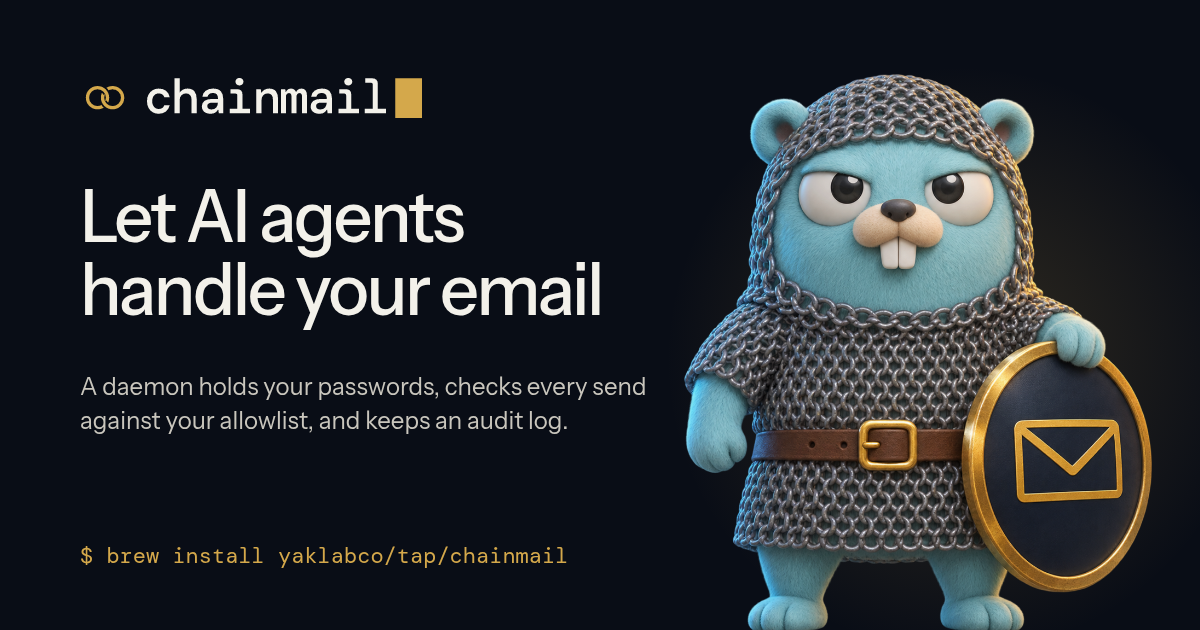
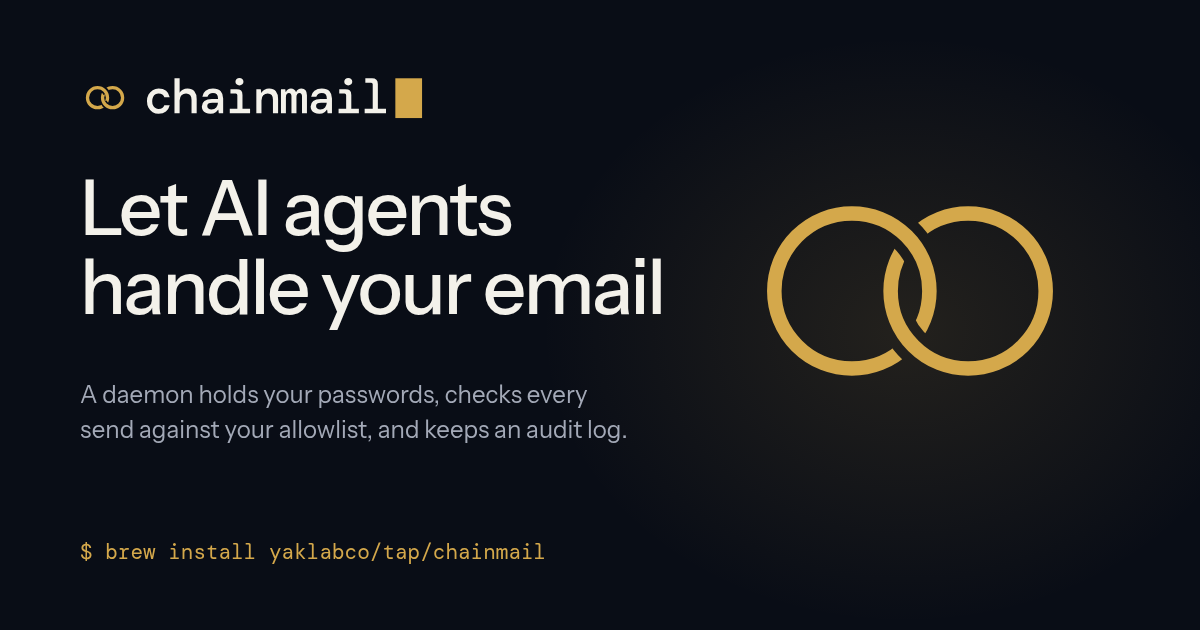
feat(site): retire the gopher mascot
The mascot leaves the landing page's closing section, both footers'
credits, the README and the link preview image. The README opens with
the wordmark, picked for dark or light by a <picture> element, and the
social card draws the linked rings large in the gopher's place. The
brand test now fails on any mascot or gopher reference.

diff --git a/site/src/styles/tokens.css b/site/src/styles/tokens.css
@@ -255,13 +255,12 @@
   #faq .faq--more { display: flex; flex-direction: column; justify-content: space-between; }
 }
 .footer--statement .btn--primary { --action: var(--p-action); --action-ink: var(--p-action-ink); }
-/* the close: the mascot's one cameo, beside the button; sized to the old badge's height (122px, 78px on a phone) */
+/* the close: the heading, then the button */
 .section-head--split > .close__cta-end { display: flex; align-items: center; gap: var(--s-6); }
 .closing__cta.close--word { min-width: 0; gap: var(--s-5); }
 .close--word h2 { max-width: none; }
 .close--word .close__word { font-size: calc(min(100vw - 2 * var(--gut), 1280px) / 4.3); line-height: .96; overflow: visible; margin-top: auto; }
-.close__mascot { width: 102px; height: auto; flex: none; }
-@media (max-width: 639px) { .close__mascot { width: 65px; } .section-head--split > .close__cta-end { gap: var(--s-4); width: 100%; } .close__cta-end > .btn { flex: 1; } }
+@media (max-width: 639px) { .section-head--split > .close__cta-end { gap: var(--s-4); width: 100%; } .close__cta-end > .btn { flex: 1; } }
 
 /* the wordmark in the nav: rings, the name in DM Mono, a blinking cursor */
 .nav__logo .nav__wordmark { display: block; height: 22px; width: auto; }

diff --git a/website/docusaurus.config.ts b/website/docusaurus.config.ts
@@ -4,9 +4,6 @@ import { themes as prismThemes } from 'prism-react-renderer';
 import rehypeTables from './plugins/rehype-tables.mjs';
 import { mermaidOptions } from './plugins/mermaid-theme.mjs';
 
-const gopherCredit =
-  'The Go gopher was designed by Renée French and is licensed under CC BY 4.0. The chainmail gopher is a derivative work under the same license.';
-
 const config: Config = {
   title: 'chainmail',
   tagline: 'Email for AI agents, behind a policy daemon',
@@ -111,7 +108,7 @@ const config: Config = {
           ],
         },
       ],
-      copyright: `Copyright © 2026 James Ainslie. MIT license. ${gopherCredit}`,
+      copyright: `Copyright © 2026 James Ainslie. MIT license.`,
     },
     prism: {
       theme: prismThemes.github,

diff --git a/website/static/img/README.md b/website/static/img/README.md
@@ -5,13 +5,10 @@
 - `wordmark-dark.svg` and `wordmark-light.svg` are the logo for dark and light backgrounds: two linked gold rings, "chainmail" in DM Mono 500 and a block cursor. The letters are outlined, so the files need no font. The cursor blinks, and stays still for visitors who ask for reduced motion.
 - `favicon.svg` is the rings on a navy rounded square. `favicon.ico`, `favicon-192.png` and `apple-touch-icon.png` are the same mark at icon sizes. The Apple icon is square, because iOS rounds the corners itself.
 
-The landing page keeps its own copies in `site/public/img/`.
+The repository README shows the wordmark too, through a `<picture>` element that picks the dark or light file.
 
-## Gopher
+## Link preview
 
-The chainmail gopher was made for chainmail from the Go gopher. It is a gopher in a mail coif and hauberk, holding a navy shield that carries a gold envelope.
+- `social-card.png` is the 1200x630 image that link previews show: the wordmark, the headline and the install command, with the rings drawn large on the right.
 
-- `mascot.png` is the full figure on a transparent background. The repository README uses it.
-- `social-card.png` is the 1200x630 preview image that link previews show, with the wordmark at the top left.
-
-The Go gopher was designed by Renée French and is licensed under CC BY 4.0. The chainmail gopher is a derivative work under the same license.
+The landing page keeps its own copies of these files in `site/public/img/`.

diff --git a/CHANGELOG.md b/CHANGELOG.md
@@ -23,9 +23,9 @@ and this project adheres to [Semantic Versioning](https://semver.org/spec/v2.0.0
 - Watch group names that start with `rules.` are refused, as names that start with `cache.` are. The upgrade deletes any such group.
 - A client that names itself `rule` or `daemon` is recorded in the audit log as `(invalid)`, so those client kinds mark only the daemon's own work.
 - The upgrade applies `state.db` migration 6, and an older binary refuses the database afterwards. Take a snapshot before you upgrade.
-- The manual has the landing page's look, and the chainmail gopher is redrawn.
+- The manual has the landing page's look.
 - The manual's tables and diagrams are restyled to match, and a diagram too wide for the page opens at full size.
-- The logo is now a wordmark: two linked gold rings, the name in DM Mono and a blinking cursor. The favicons and the link preview image use it too.
+- The logo is now a wordmark: two linked gold rings, the name in DM Mono and a blinking cursor. The favicons and the link preview image use it too, and the gopher mascot is retired.
 
 ### Fixed
 

diff --git a/README.md b/README.md
@@ -1,5 +1,8 @@
 <p align="center">
-  <img src="website/static/img/mascot.png" alt="The chainmail gopher: a Go gopher in a chainmail coif and hauberk, holding a shield with a gold envelope" width="400" />
+  <picture>
+    <source media="(prefers-color-scheme: dark)" srcset="website/static/img/wordmark-dark.svg" />
+    <img src="website/static/img/wordmark-light.svg" alt="chainmail" width="360" />
+  </picture>
 </p>
 
 <p align="center">
@@ -110,5 +113,3 @@ chainmail is in active development. Releases are published on [GitHub](https://g
 ## License
 
 chainmail is released under the MIT license. See [LICENSE](LICENSE).
-
-The Go gopher was designed by Renée French and is licensed under CC BY 4.0. The chainmail gopher is a derivative work under the same license.
